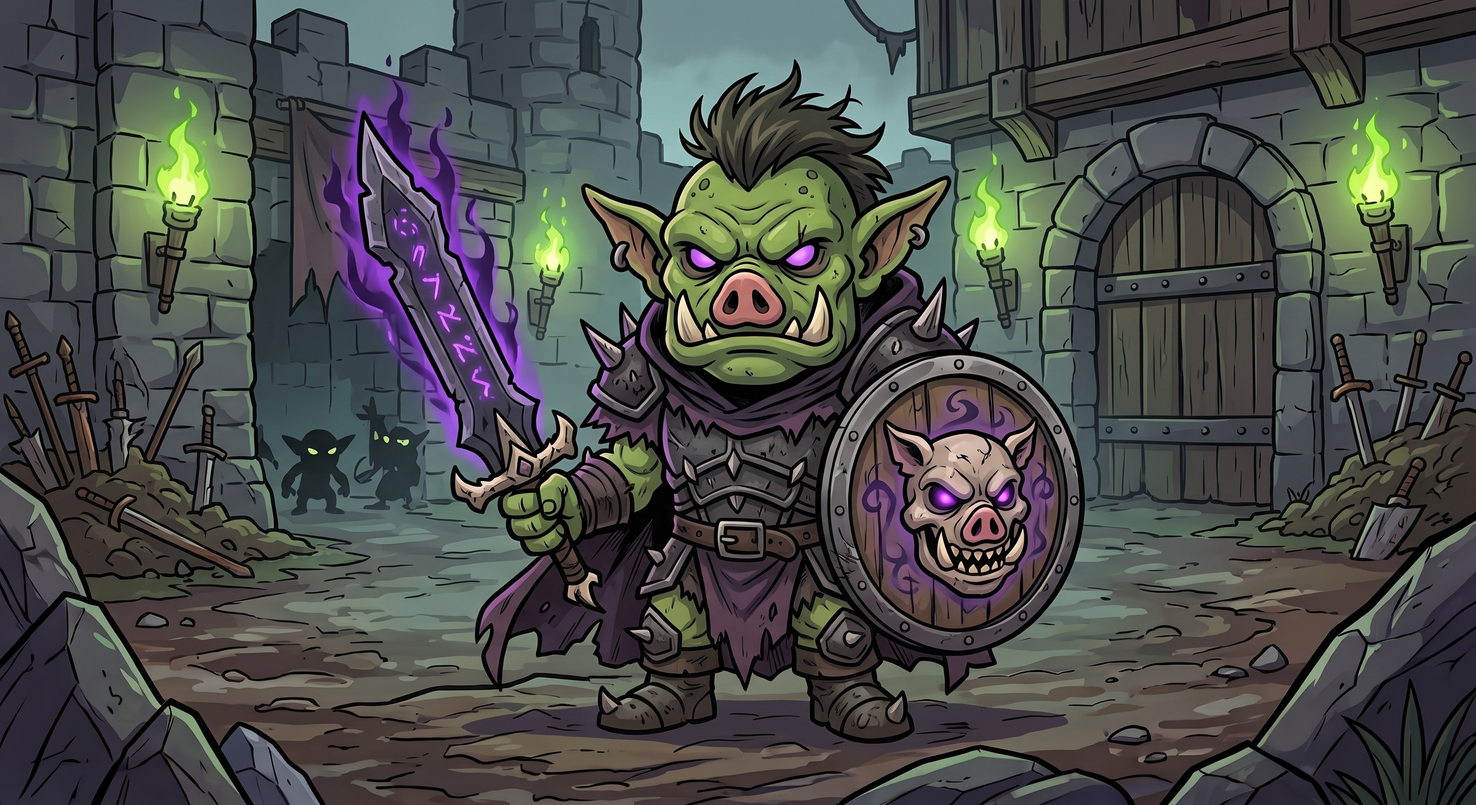
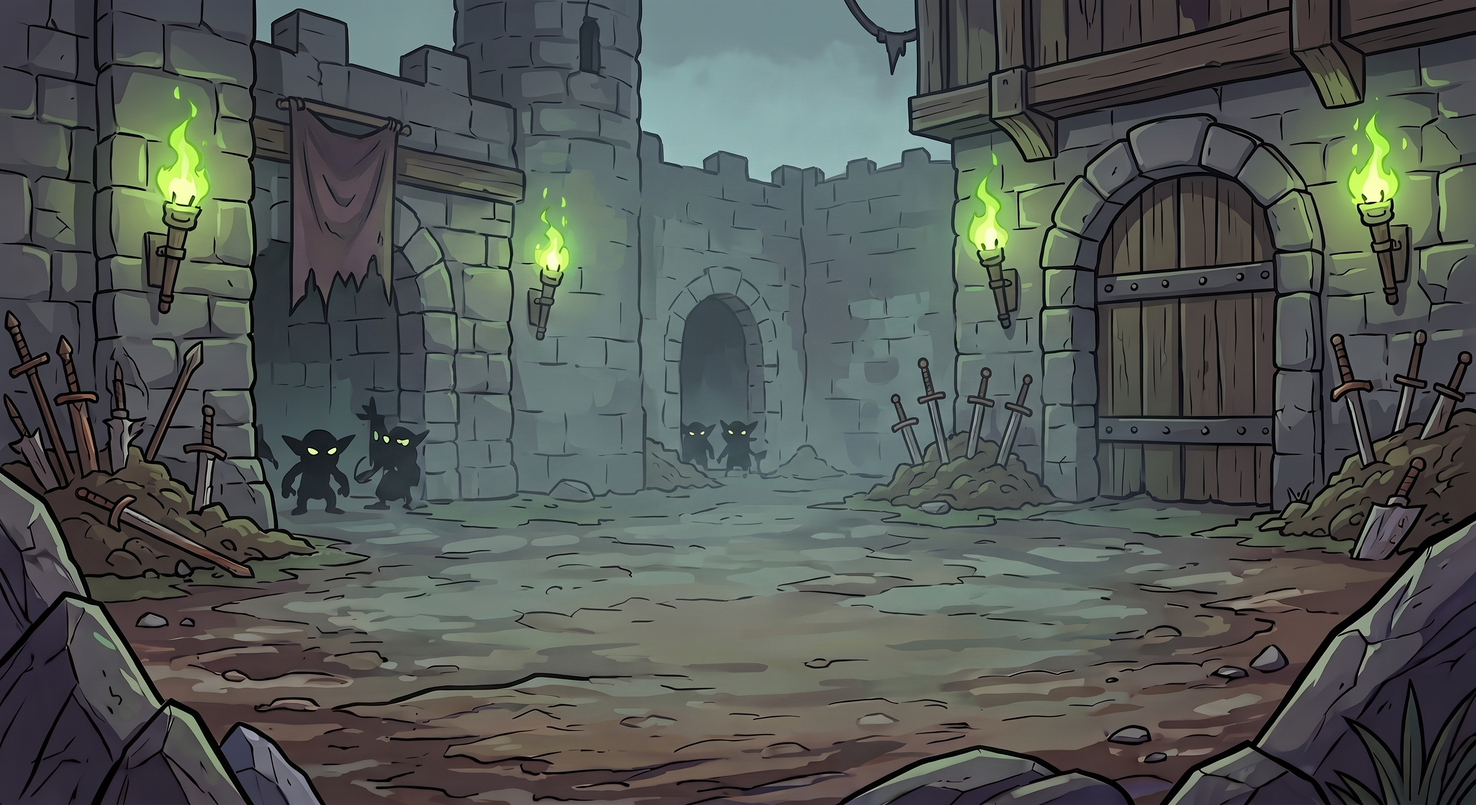
Add combat friction and background-only fight-load art
- Attacking now drops your guard, and you can't raise your shield
  mid-swing, closing the block-with-one-thumb-attack-with-the-other
  exploit that made fights trivial.
- A blocked attack now burns bonus stamina for overextending, and
  enemies block un-timed swings more often, rewarding parry timing.
- Shields wear down meaningfully from repeated blocking instead of
  regen roughly canceling out the cost.
- Swap in background-only char-bg art (plus base-image originals)
  so the VS fight-load screen doesn't double up the character.

Changed region(s): [[0.2188, 0.0625, 0.75, 0.9375], [0.9062, 0.25, 0.9375, 0.2812]]

diff --git a/index.html b/index.html
@@ -220,14 +220,17 @@ const S={
 let hp=100, ehp=100, defending=false, locked=false, swinging=false, timer=null, recoverTimer=null, startX=0,startY=0;
 const STAMINA_MAX=100, STAMINA_REGEN=40;
 const SLASH_COST=30, THRUST_COST=44;
-const OUTSIDE_BLOCK_CHANCE={slash:0.45,thrust:0.55};
+const OUTSIDE_BLOCK_CHANCE={slash:0.5,thrust:0.6};
+const BLOCK_STAMINA_PENALTY=12;
 const RECOVER_WINDOW_MS=1400;
 let stamina=STAMINA_MAX, staminaTimer=null;
 let shield=100, shieldTimer=null;
 // Shields still regenerate while held, just slower — holding block is the move the
-// tutorial teaches, so it must never drain to a dead stop.
+// tutorial teaches, so it must never drain to a dead stop just from holding.
+// The cost of actually absorbing a hit outweighs that trickle, so a shield that's
+// blocking repeatedly still wears down over the course of a fight.
 const HELD_REGEN_SCALE=0.5;
-function shieldParams(){return S.shield==='steel'?{max:150,cost:22,regen:20}:{max:100,cost:26,regen:14}}
+function shieldParams(){return S.shield==='steel'?{max:150,cost:27,regen:18}:{max:100,cost:34,regen:12}}
 const PARRY_WINDOW_MS=380;
 let telegraphStart=0;
 // phase: 'idle' (enemy waiting) | 'telegraph' (enemy winding up/swinging) | 'recover' (staggered after a perfect parry) | 'finished'
@@ -255,7 +258,7 @@ function go(id){document.querySelectorAll('.page').forEach(x=>x.classList.remove
 // handlers explain why nothing happened.
 function canSlash(){return stamina>=SLASH_COST&&!locked}
 function canThrust(){return stamina>=THRUST_COST&&!locked}
-function canDefend(){return shield>=shieldParams().cost&&!locked}
+function canDefend(){return shield>=shieldParams().cost&&!locked&&!swinging}
 function updateStamina(){
  const sBtn=document.querySelector('#slash'),tBtn=document.querySelector('#thrust');
  const pct=Math.round(stamina)+'%';
@@ -413,6 +416,7 @@ function resolveAttack(kind){
  if(locked||phase==='finished'||swinging)return;
  const cost=kind==='thrust'?THRUST_COST:SLASH_COST;
  if(stamina<cost){document.querySelector('#log').textContent='Too tired for a '+kind+' — catch your breath.';return}
+ if(defending)stopDefending();
  swinging=true;
  stamina-=cost;updateStamina();
  const p=document.querySelector('#player'),e=document.querySelector('#enemy');
@@ -427,9 +431,10 @@ function resolveAttack(kind){
   if(locked)return;
   if(blocked){
    // Deliberately dull: a block should feel nothing like a clean hit.
+   stamina=Math.max(0,stamina-BLOCK_STAMINA_PENALTY);updateStamina();
    setSprite(e,'assets/'+currentEnemy.folder+'/defend.png',currentEnemy.idle);e.className='fighter enemy defendpose';
    document.querySelector('#telegraph').textContent='🛡 BLOCKED!';
-   document.querySelector('#log').textContent='The '+currentEnemy.name+' blocks your '+kind+'!';
+   document.querySelector('#log').textContent='The '+currentEnemy.name+' blocks your '+kind+' — overextended, you stagger.';
    impactRing(e,true);
    p.className='fighter player';p.src='assets/knight/idle-front.png';
   }else{
@@ -537,6 +542,7 @@ function spawnParticles(el,count){
 
 function startDefending(){
  if(locked||defending)return;
+ if(swinging){document.querySelector('#log').textContent="You're mid-swing — can't raise your shield yet.";return}
  if(!canDefend()){document.querySelector('#log').textContent='Your shield is too worn — give it a moment to recover.';return}
  defending=true;db.textContent='🛡 DEFENDING';
  const p=document.querySelector('#player');p.src='assets/knight/defend.png';p.classList.add('defendpose');
